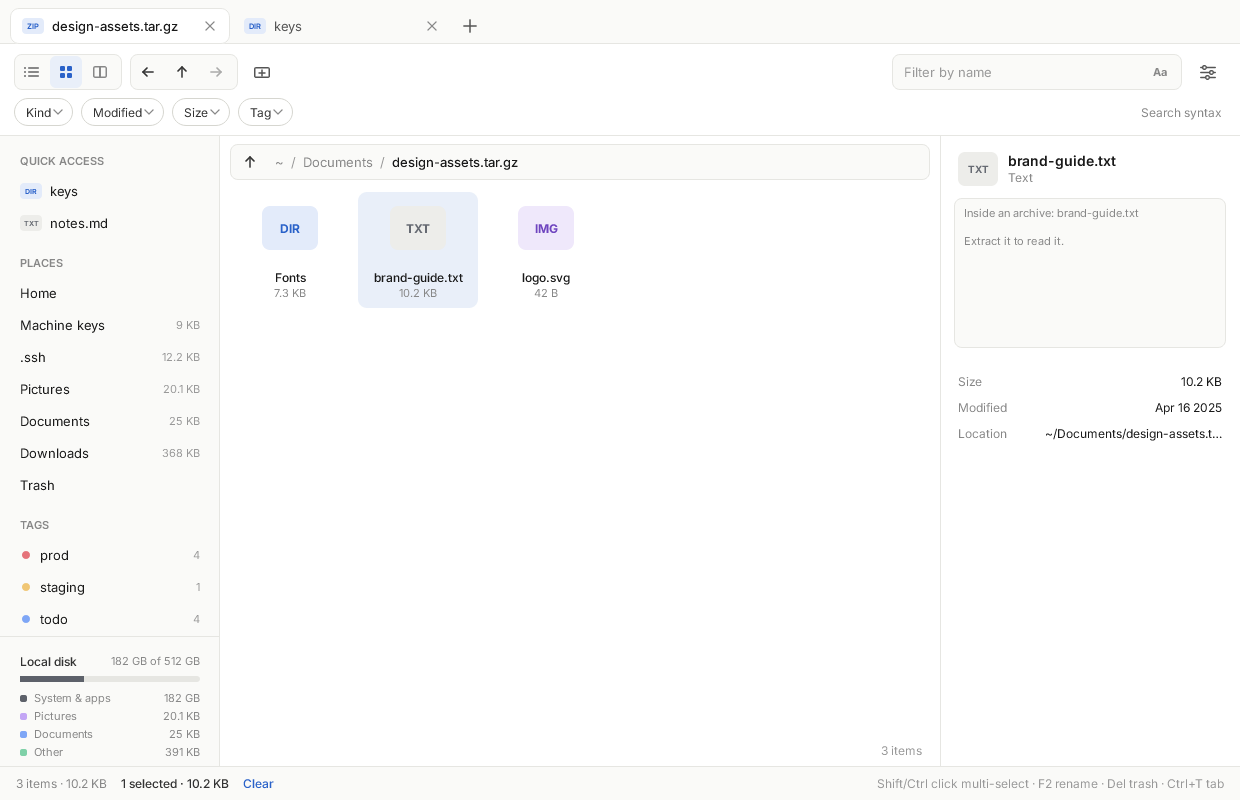
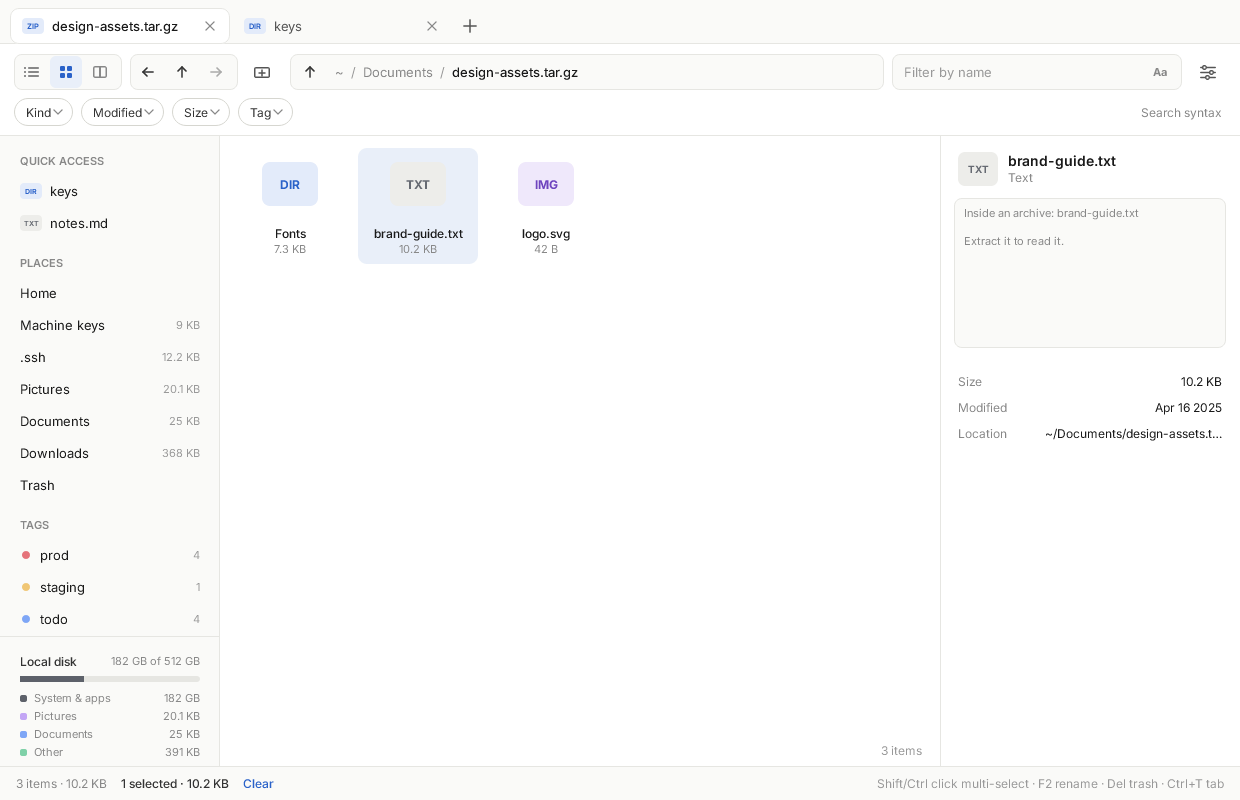
shelf: its tab row is its title bar where it draws its own, and one pane's path bar is in the tool row
The customer, 2026-10-28: Files should use its own title bar, as the
lode viewer does. shelf asks to draw its own frame (tole's
Decorations::Client); while tole says it does, the tab row is the title
bar: minimize, maximize and close at its right end, a press between the
tabs moves the window (xdg_toplevel.move) and a double click maximizes
it. Where the compositor draws its bar over the window the row is only
tabs, as before.

And when Files is one pane, where it is -- the up button and the
breadcrumbs -- moves up from over the pane into the tool row, between the
buttons and the search, taking the free space there, and the list starts
where the pane's path bar was. Two panes each keep their own path bar.
The crumbs and the up button do what they did.

Tests: view::tests::the_tab_row_is_the_title_bar_only_where_the_window_draws_its_frame
(no buttons and no move in the compositor's mode; each button, the move
and the double click in the window's own; a tab is still a tab), and
view::tests::one_pane_has_its_path_bar_in_the_tool_row_and_two_have_their_own
(where the crumbs are in each, the list's head moved up, a crumb and the
up button still walk). Negative controls: the buttons always on, and
never on, each fail the first; the path bar left in the pane fails the
second. The screenshots test gains single.png (one pane) and
own-frame.png (its own title bar), and archive.png is drawn anew, being
one pane.

diff --git a/shelf/src/view.rs b/shelf/src/view.rs
@@ -822,6 +822,14 @@ impl View {
         self.dialog_shown = kind != 0;
     }
 
+    /// Whether the window draws its own frame -- the compositor answered
+    /// `client_side` or draws none -- and so its tab row shows minimize,
+    /// maximize and close and moves the window
+    /// (`tole::window::Window::draws_own_frame`).
+    pub fn set_own_frame(&mut self, on: bool) {
+        self.shelf.own_frame.set(&mut self.ui, on);
+    }
+
     /// What was pressed since the last call, as actions.
     pub fn actions(&mut self) -> Vec<Action> {
         let emitted = self.ui.take_signals();
@@ -899,6 +907,10 @@ impl View {
                 ShelfSignal::BulkPicked(on) => out.push(Action::BulkFormat(on)),
                 ShelfSignal::DialogOk => out.push(Action::DialogOk),
                 ShelfSignal::DialogCancel => out.push(Action::DialogCancel),
+                ShelfSignal::MoveWindow => out.push(Action::WindowMove),
+                ShelfSignal::MaximizeWindow => out.push(Action::WindowMaximize),
+                ShelfSignal::MinimizeWindow => out.push(Action::WindowMinimize),
+                ShelfSignal::CloseWindow => out.push(Action::WindowClose),
             }
         }
         out
@@ -1108,6 +1120,8 @@ mod tests {
             (false, "main", "light"),
             (true, "rename", "rename"),
             (false, "archive", "archive"),
+            (false, "single", "single"),
+            (true, "own-frame", "own-frame"),
         ] {
             let drawn = crate::cli::render_scene(dark, 1.0, scene).expect("drawn");
             let kept = std::fs::read(dir.join(format!("{name}.png"))).unwrap_or_default();
@@ -1179,5 +1193,155 @@ mod tests {
             view.shelf.error1
         });
         assert!(error.starts_with("Search: Invalid regex"), "{error}");
+    }
+
+    /// Where every shown `Text` saying `label` is.
+    fn texts_at(ui: &mut tole::Ui, label: &str) -> Vec<tole::Rect> {
+        let mut found = Vec::new();
+        let mut stack: Vec<tole::ItemId> = ui.roots().to_vec();
+        while let Some(item) = stack.pop() {
+            let Some(common) = ui.common(item) else {
+                continue;
+            };
+            if !ui.get(common.visible) {
+                continue;
+            }
+            if let Some(text) = ui.text(item)
+                && &*ui.get(text.text) == label
+                && let Some(rect) = ui.rect_of(item)
+            {
+                found.push(rect);
+            }
+            stack.extend(ui.children(item).iter().rev());
+        }
+        found
+    }
+
+    /// One pane shows where it is in the tool row, between the buttons and
+    /// the search, and its list starts higher; two panes each show their
+    /// own path bar over the pane, and the tool row has none. The tool
+    /// row's crumbs still walk, and its up button still goes up.
+    #[test]
+    fn one_pane_has_its_path_bar_in_the_tool_row_and_two_have_their_own() {
+        let mut app = crate::demo::app(false);
+        let home = crate::demo::home();
+        let mut view = View::new(super::fonts()).expect("made");
+        view.show(&mut app);
+        let _ = view.ui.render((1240, 800), tole::Color::TRANSPARENT);
+        let split = texts_at(&mut view.ui, "~");
+        assert_eq!(split.len(), 2, "a path bar in each pane: {split:?}");
+        assert!(
+            split.iter().all(|at| at.y > 136.0),
+            "over the panes: {split:?}"
+        );
+
+        app.act(Action::ToggleDual);
+        view.show(&mut app);
+        let _ = view.ui.render((1240, 800), tole::Color::TRANSPARENT);
+        let single = texts_at(&mut view.ui, "~");
+        assert_eq!(single.len(), 1, "one path bar: {single:?}");
+        let crumb = single[0];
+        assert!(
+            (54.0..90.0).contains(&crumb.y) && crumb.x > 290.0 && crumb.x < 1240.0 - 350.0,
+            "in the tool row, between the buttons and the search: {crumb:?}"
+        );
+        // The list's head comes up where the pane's path bar was.
+        let head = texts_at(&mut view.ui, "Name \u{2191}");
+        assert!(
+            head.iter().any(|at| at.y < 136.0 + 44.0),
+            "the list starts at the pane's top: {head:?}"
+        );
+        // Its crumb walks: home.
+        let f = app.focus();
+        app.act(Action::Go(Loc::Dir(home.join("Pictures"))));
+        view.show(&mut app);
+        click(&mut view, &mut app, "~");
+        assert_eq!(app.pane(f).loc, Loc::Dir(home.clone()));
+        // Its up button goes up: from the pictures, home.
+        app.act(Action::Go(Loc::Dir(home.join("Pictures"))));
+        view.show(&mut app);
+        let _ = view.ui.render((1240, 800), tole::Color::TRANSPARENT);
+        view.ui.pointer_move(290.0 + 4.0 + 16.0, 54.0 + 18.0);
+        view.ui.pointer_press();
+        view.ui.pointer_release();
+        let asked = view.actions();
+        assert!(asked.contains(&Action::Up(0)), "the up button: {asked:?}");
+    }
+
+    /// The tab row is the window's title bar only where the window draws
+    /// its own frame: then it has minimize, maximize and close at its
+    /// right end, a press on its empty part moves the window and a double
+    /// click maximizes it. Where the compositor draws the title bar (Yoru's)
+    /// the row has none of that, and a press there asks nothing of the
+    /// window.
+    #[test]
+    fn the_tab_row_is_the_title_bar_only_where_the_window_draws_its_frame() {
+        let window_actions = |asked: &[Action]| -> Vec<Action> {
+            asked
+                .iter()
+                .filter(|action| {
+                    matches!(
+                        action,
+                        Action::WindowMove
+                            | Action::WindowMaximize
+                            | Action::WindowMinimize
+                            | Action::WindowClose
+                    )
+                })
+                .cloned()
+                .collect()
+        };
+        let press = |view: &mut View, x: f32, y: f32, double: bool| -> Vec<Action> {
+            let _ = view.ui.render((1240, 800), tole::Color::TRANSPARENT);
+            view.ui.pointer_move(x, y);
+            view.ui.pointer_press();
+            view.ui.pointer_release();
+            if double {
+                view.ui.pointer_press();
+                view.ui.pointer_release();
+            }
+            view.actions()
+        };
+        let spots = [1240.0 - 88.0, 1240.0 - 54.0, 1240.0 - 20.0];
+        for own in [false, true] {
+            let mut app = crate::demo::app(false);
+            let mut view = View::new(super::fonts()).expect("made");
+            view.set_own_frame(own);
+            view.show(&mut app);
+            let asked: Vec<Vec<Action>> = spots
+                .iter()
+                .map(|&x| window_actions(&press(&mut view, x, 22.0, false)))
+                .collect();
+            let empty = window_actions(&press(&mut view, 700.0, 22.0, false));
+            let double = window_actions(&press(&mut view, 700.0, 22.0, true));
+            if own {
+                assert_eq!(
+                    asked,
+                    [
+                        vec![Action::WindowMinimize],
+                        vec![Action::WindowMaximize],
+                        vec![Action::WindowClose]
+                    ],
+                    "its own buttons"
+                );
+                assert_eq!(empty, [Action::WindowMove], "the row moves the window");
+                assert!(
+                    double.contains(&Action::WindowMaximize),
+                    "a double click maximizes: {double:?}"
+                );
+            } else {
+                assert!(
+                    asked.iter().all(Vec::is_empty) && empty.is_empty() && double.is_empty(),
+                    "the compositor's bar has them: {asked:?} {empty:?} {double:?}"
+                );
+            }
+            // A tab is still a tab.
+            let tab = press(&mut view, 120.0, 26.0, false);
+            assert!(tab.contains(&Action::Tab(0)), "{tab:?}");
+            assert!(
+                window_actions(&tab).is_empty(),
+                "a tab is not the bar: {tab:?}"
+            );
+        }
     }
 }

diff --git a/shelf/src/window.rs b/shelf/src/window.rs
@@ -6,7 +6,7 @@ use std::time::{Duration, Instant};
 
 use compositor_toolkit::{Event, KeyboardEvent};
 use tole::Element as _;
-use tole::window::{Window, WindowOptions};
+use tole::window::{Decorations, Window, WindowOptions};
 
 use crate::app::{Action, App};
 use crate::cli::say;
@@ -67,6 +67,9 @@ pub fn run(mut app: App) -> i32 {
         min_size: (900, 560),
         resize_edges: true,
         clipboard: true,
+        // Its tab row is its title bar, with its own buttons: hyprix
+        // draws none over it where it agrees.
+        decorations: Decorations::Client,
         ..WindowOptions::default()
     };
     let mut window = match Window::open(view.shelf.common(), options) {
@@ -79,6 +82,7 @@ pub fn run(mut app: App) -> i32 {
     let timer = window.client().add_timer(TICK, Some(TICK));
     let mut toast_since: Option<Instant> = None;
     let mut up = false;
+    let mut own_frame = false;
     while !window.is_closed() {
         let events = match window.dispatch(&mut view.ui, None) {
             Ok(events) => events,
@@ -92,6 +96,21 @@ pub fn run(mut app: App) -> i32 {
             say(&format!("the window is up, {w}x{h}"));
         }
         let mut dirty = false;
+        // The window's own buttons only where the compositor draws no
+        // title bar over it.
+        if window.draws_own_frame() != own_frame {
+            own_frame = window.draws_own_frame();
+            say(&format!(
+                "the window's frame is {}",
+                if own_frame {
+                    "its own"
+                } else {
+                    "the compositor's"
+                }
+            ));
+            view.set_own_frame(own_frame);
+            dirty = true;
+        }
         let mut actions: Vec<Action> = Vec::new();
         for event in events {
             match event {
@@ -144,8 +163,16 @@ pub fn run(mut app: App) -> i32 {
         }
         actions.extend(view.actions());
         for action in actions {
-            app.act(action);
-            dirty = true;
+            match action {
+                Action::WindowMove => window.start_move(),
+                Action::WindowMaximize => window.toggle_maximized(),
+                Action::WindowMinimize => window.minimize(),
+                Action::WindowClose => return 0,
+                action => {
+                    app.act(action);
+                    dirty = true;
+                }
+            }
         }
         if app.toast.is_some() && toast_since.is_none() {
             toast_since = Some(Instant::now());

diff --git a/shelf/src/cli.rs b/shelf/src/cli.rs
@@ -25,7 +25,9 @@ pub fn render_demo(dark: bool, scale: f32) -> Option<Vec<u8>> {
 
 /// The demo's window in one of its scenes: `main` (the design's two
 /// panes), `rename` (two pictures renamed together), `archive` (inside a
-/// zip, one pane, the grid) or `trash`.
+/// zip, one pane, the grid), `single` (one pane, its path bar in the tool
+/// row), `own-frame` (the same, the window drawing its own frame: its
+/// buttons at the tab row's end) or `trash`.
 #[must_use]
 pub fn render_scene(dark: bool, scale: f32, scene: &str) -> Option<Vec<u8>> {
     use crate::app::{Action, Loc};
@@ -46,10 +48,12 @@ pub fn render_scene(dark: bool, scale: f32, scene: &str) -> Option<Vec<u8>> {
             app.act(Action::Grid(true));
             app.act(Action::Click(0, 1, false, false));
         }
+        "single" | "own-frame" => app.act(Action::ToggleDual),
         _ => {}
     }
     let mut view = crate::view::View::new(crate::view::fonts())?;
     view.ui.set_scale(scale);
+    view.set_own_frame(scene == "own-frame");
     view.show(&mut app);
     let size = (1240, 800);
     let frame = view.ui.render(size, tole::Color::TRANSPARENT)?;
@@ -70,7 +74,7 @@ pub fn main() -> ExitCode {
     }
     if args.iter().any(|a| a == "--help" || a == "-h") {
         say_plain(
-            "shelf [FOLDER] | --demo | --render FILE [--light] [--scale N] [--scene main|rename|archive] | --version",
+            "shelf [FOLDER] | --demo | --render FILE [--light] [--scale N] [--scene main|rename|archive|single|own-frame] | --version",
         );
         return ExitCode::SUCCESS;
     }

diff --git a/shelf/src/app.rs b/shelf/src/app.rs
@@ -424,6 +424,17 @@ pub enum Action {
     DialogOk,
     /// Its Cancel, or Escape.
     DialogCancel,
+    /// The window's own title bar, where it draws its own frame: move the
+    /// window by the pointer, maximize it or give it back its size,
+    /// minimize it, close it. The window does these; the state does
+    /// nothing with them.
+    WindowMove,
+    /// See [`Action::WindowMove`].
+    WindowMaximize,
+    /// See [`Action::WindowMove`].
+    WindowMinimize,
+    /// See [`Action::WindowMove`].
+    WindowClose,
 }
 
 /// The disk the home folder is on.

diff --git a/shelf/README.md b/shelf/README.md
@@ -17,7 +17,14 @@ CPU; it runs on Ferrix's desktop and on any Linux Wayland desktop.
 * **Tabs** (Ctrl+T, Ctrl+W), each with **one pane or two** (the third
   view button; Tab switches between them). Back and Forward keep each
   pane's history; Up and Backspace go to the folder above; the
-  breadcrumbs go anywhere above.
+  breadcrumbs go anywhere above. One pane shows them in the tool row,
+  between the buttons and the search; two show them over each pane.
+* **Its own title bar** where the compositor agrees (`xdg-decoration`'s
+  `client_side`, which hyprix gives it under Yoru's title bars, or a
+  compositor with no title bars at all): the tab row then has minimize,
+  maximize and close at its end, moves the window when pressed between
+  the tabs and maximizes it on a double click. Where the compositor draws
+  its own title bar over the window, the row is only tabs.
 * **List or grid.** The list sorts by name, kind, size or date (click a
   column; again to turn it round), folders first unless the settings say
   otherwise; the grid shows pictures' thumbnails. Compact rows, hidden
@@ -61,6 +68,8 @@ CPU; it runs on Ferrix's desktop and on any Linux Wayland desktop.
 
 ![inside an archive, as a grid](screenshots/archive.png)
 
+![one pane, its own title bar](screenshots/own-frame.png)
+
 ## Running it
 
 On Ferrix it is in every image a person runs (`Files` in the launcher).
@@ -82,6 +91,8 @@ cargo run -- --render screenshots/dark.png
 cargo run -- --render screenshots/light.png --light
 cargo run -- --render screenshots/rename.png --scene rename
 cargo run -- --render screenshots/archive.png --scene archive --light
+cargo run -- --render screenshots/single.png --scene single --light
+cargo run -- --render screenshots/own-frame.png --scene own-frame
 ```
 
 ## Licence
